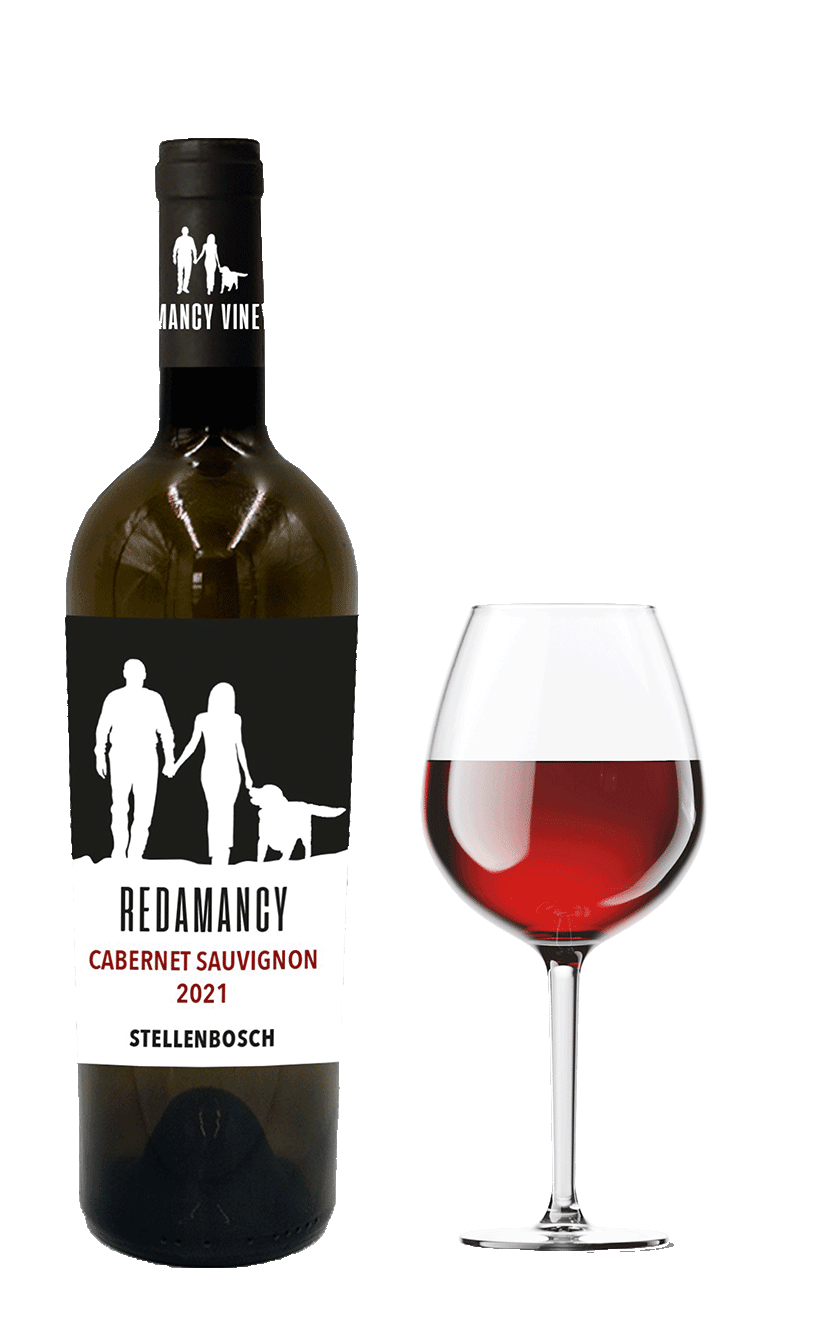
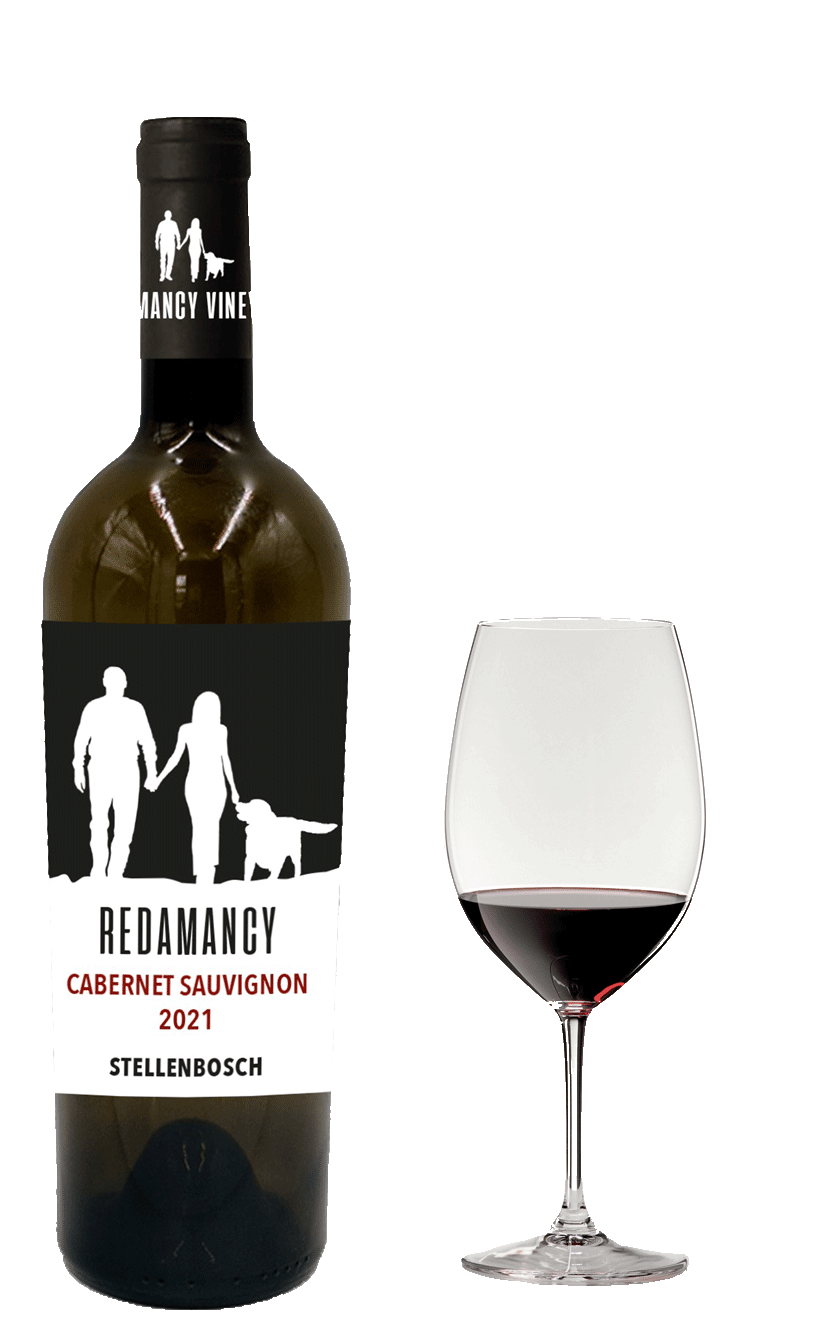
Second Commit

Changed region(s): [[0.031, 0.0614, 0.4333, 0.9828], [0.4952, 0.43, 0.8667, 0.9828]]

diff --git a/resources/views/shop/show.blade.php b/resources/views/shop/show.blade.php
@@ -1,0 +1,326 @@
+@extends('layouts.main')
+@section('assets')
+    <style type="text/css" data-type="vc_shortcodes-custom-css">.vc_custom_1460727920666{padding-top: 0px !important;padding-bottom: 0px !important;background-color: #f2f2f2 !important;}.vc_custom_1460727927848{padding-top: 0px !important;padding-bottom: 0px !important;background-color: #f2f2f2 !important;}.vc_custom_1460727935440{padding-top: 0px !important;padding-bottom: 0px !important;background-color: #f2f2f2 !important;}.vc_custom_1460636569719{padding: 20% !important;}.vc_custom_1460635864072{padding-top: 0px !important;padding-right: 0px !important;padding-bottom: 0px !important;padding-left: 0px !important;}.vc_custom_1460727890422{margin-bottom: 0px !important;}.vc_custom_1459091894099{margin-bottom: 0px !important;}.vc_custom_1460635871252{padding-top: 0px !important;padding-right: 0px !important;padding-bottom: 0px !important;padding-left: 0px !important;}.vc_custom_1460636579755{padding: 20% !important;}.vc_custom_1459092021864{margin-bottom: 0px !important;}.vc_custom_1460636587092{padding: 20% !important;}.vc_custom_1460635878309{padding-top: 0px !important;padding-right: 0px !important;padding-bottom: 0px !important;padding-left: 0px !important;}.vc_custom_1459092115753{margin-bottom: 0px !important;}</style><noscript><style> .wpb_animate_when_almost_visible { opacity: 1; }</style></noscript></head>
+
+@endsection
+
+@section('content')
+    <div class="site-wrapper">
+
+        <header class="site-header default">
+
+        @include('partials.nav')
+        <!-- Page header image -->
+            <!-- End Page header image -->
+            <!-- Page meta -->
+            <div class="page-meta " >
+
+                <div class="container">
+                    <div class="row">
+                        <div class="col-md-12">
+
+                            <div class="page-meta-wrapper">
+
+
+
+
+
+
+                            </div><!-- .page-meta-wrapper -->
+
+                        </div><!-- .col-md-12 -->
+
+                    </div><!-- .row -->
+                </div><!-- .container -->
+
+            </div><!-- .page-meta -->
+
+            <!-- Page header image -->
+            <!-- End Page header image -->
+        </header>
+        <!-- End Header. Begin Template Content -->
+        <section id="content">
+            <div class="container">
+                <div class="row">
+                    <div class="col-xs-12 col-md-12">
+                        <div class="woocommerce-notices-wrapper"></div>
+                        <div id="product-680" class="product type-product post-680 status-publish first instock product_cat-red-wines product_tag-red product_tag-wine has-post-thumbnail shipping-taxable purchasable product-type-variable has-default-attributes">
+                            <div class="row">
+                                <div class="col-md-6">
+                                    <div class="woocommerce-product-gallery woocommerce-product-gallery--with-images woocommerce-product-gallery--columns-4 images" data-columns="4" style="transition: opacity .25s ease-in-out;">
+                                        <figure class="woocommerce-product-gallery__wrapper">
+                                            <div data-thumb="http://127.0.0.1:81/wordpress/wp-content/uploads/2016/03/Dark-blue-Merlot-w-cup-v2-140x140.png"
+                                                 data-thumb-alt="" class="woocommerce-product-gallery__image">
+                                                <a href="{{asset('images/wine-bottles/current-release.png')}}">
+                                                    <img width="840" height="1335" src="{{asset('images/wine-bottles/current-release.png')}}" class="wp-post-image" alt="" loading="lazy"
+                                                         title="Dark-blue-Merlot-w-cup-v2" data-caption="" data-src="{{asset('images/wine-bottles/current-release.png')}}"
+                                                         data-large_image="images/wine-bottles/current-release.png" data-large_image_width="840"
+                                                         data-large_image_height="1335" srcset="images/wine-bottles/current-release.png 840w,
+                                                         images/wine-bottles/current-release.png 189w,
+                                                         images/wine-bottles/current-release.png 644w,
+                                                         images/wine-bottles/current-release.png 768w" sizes="(max-width: 840px) 100vw, 840px" />
+                                                </a>
+                                            </div>
+                                        </figure>
+                                    </div>
+                                </div><!-- .col-md-6 -->
+
+                                <div class="col-md-6">
+                                    <div class="summary entry-summary">
+                                        <h1 class="product_title entry-title">Cabernet Sauvignon</h1>
+                                        <div itemprop="description">
+                                            <p>Served well-chilled our authentically made Cabernet Sauvignon is a refreshingly delicate dry wine with hints of strawberry, citrus, and peach laced fruit.</p>
+                                        </div>
+                                        <div itemprop="offers" itemscope itemtype="http://schema.org/Offer">
+
+                                            <p class="price">
+                                                <span class="price-text-prefix">From </span>
+                                                <span class="woocommerce-Price-amount amount">
+                                                    <bdi>
+                                                        <span class="woocommerce-Price-currencySymbol">KSh</span>&nbsp;150.00</bdi>
+                                                </span>
+                                                <span class="bottle-size">/750ml</span>
+                                            </p>
+
+                                        </div>
+
+                                        <form class="variations_form cart" action="" method="post"
+                                              enctype='multipart/form-data' data-product_id="680"
+                                              data-product_variations="[{&quot;attributes&quot;:{&quot;attribute_vintage&quot;:&quot;2015&quot;},&quot;availability_html&quot;:&quot;&quot;,&quot;backorders_allowed&quot;:false,&quot;dimensions&quot;:{&quot;length&quot;:&quot;&quot;,&quot;width&quot;:&quot;&quot;,&quot;height&quot;:&quot;&quot;},&quot;dimensions_html&quot;:&quot;N\/A&quot;,&quot;display_price&quot;:150,&quot;display_regular_price&quot;:150,&quot;image&quot;:{&quot;title&quot;:&quot;Dark-blue-Merlot-w-cup-v2&quot;,&quot;caption&quot;:&quot;&quot;,&quot;url&quot;:&quot;http:\/\/127.0.0.1:81\/wordpress\/wp-content\/uploads\/2016\/03\/Dark-blue-Merlot-w-cup-v2.png&quot;,&quot;alt&quot;:&quot;&quot;,&quot;src&quot;:&quot;http:\/\/127.0.0.1:81\/wordpress\/wp-content\/uploads\/2016\/03\/Dark-blue-Merlot-w-cup-v2.png&quot;,&quot;srcset&quot;:&quot;http:\/\/127.0.0.1:81\/wordpress\/wp-content\/uploads\/2016\/03\/Dark-blue-Merlot-w-cup-v2.png 840w, http:\/\/127.0.0.1:81\/wordpress\/wp-content\/uploads\/2016\/03\/Dark-blue-Merlot-w-cup-v2-189x300.png 189w, http:\/\/127.0.0.1:81\/wordpress\/wp-content\/uploads\/2016\/03\/Dark-blue-Merlot-w-cup-v2-644x1024.png 644w, http:\/\/127.0.0.1:81\/wordpress\/wp-content\/uploads\/2016\/03\/Dark-blue-Merlot-w-cup-v2-768x1221.png 768w&quot;,&quot;sizes&quot;:&quot;(max-width: 840px) 100vw, 840px&quot;,&quot;full_src&quot;:&quot;http:\/\/127.0.0.1:81\/wordpress\/wp-content\/uploads\/2016\/03\/Dark-blue-Merlot-w-cup-v2.png&quot;,&quot;full_src_w&quot;:840,&quot;full_src_h&quot;:1335,&quot;gallery_thumbnail_src&quot;:&quot;http:\/\/127.0.0.1:81\/wordpress\/wp-content\/uploads\/2016\/03\/Dark-blue-Merlot-w-cup-v2-140x140.png&quot;,&quot;gallery_thumbnail_src_w&quot;:140,&quot;gallery_thumbnail_src_h&quot;:140,&quot;thumb_src&quot;:&quot;http:\/\/127.0.0.1:81\/wordpress\/wp-content\/uploads\/2016\/03\/Dark-blue-Merlot-w-cup-v2.png&quot;,&quot;thumb_src_w&quot;:840,&quot;thumb_src_h&quot;:1335,&quot;src_w&quot;:840,&quot;src_h&quot;:1335},&quot;image_id&quot;:1997,&quot;is_downloadable&quot;:false,&quot;is_in_stock&quot;:true,&quot;is_purchasable&quot;:true,&quot;is_sold_individually&quot;:&quot;no&quot;,&quot;is_virtual&quot;:false,&quot;max_qty&quot;:&quot;&quot;,&quot;min_qty&quot;:1,&quot;price_html&quot;:&quot;&lt;span class=\&quot;price\&quot;&gt;&lt;span class=\&quot;woocommerce-Price-amount amount\&quot;&gt;&lt;bdi&gt;&lt;span class=\&quot;woocommerce-Price-currencySymbol\&quot;&gt;KSh&lt;\/span&gt;&amp;nbsp;150.00&lt;\/bdi&gt;&lt;\/span&gt;&lt;\/span&gt;&quot;,&quot;sku&quot;:&quot;&quot;,&quot;variation_description&quot;:&quot;&quot;,&quot;variation_id&quot;:1373,&quot;variation_is_active&quot;:true,&quot;variation_is_visible&quot;:true,&quot;weight&quot;:&quot;&quot;,&quot;weight_html&quot;:&quot;N\/A&quot;},{&quot;attributes&quot;:{&quot;attribute_vintage&quot;:&quot;2018&quot;},&quot;availability_html&quot;:&quot;&quot;,&quot;backorders_allowed&quot;:false,&quot;dimensions&quot;:{&quot;length&quot;:&quot;&quot;,&quot;width&quot;:&quot;&quot;,&quot;height&quot;:&quot;&quot;},&quot;dimensions_html&quot;:&quot;N\/A&quot;,&quot;display_price&quot;:180,&quot;display_regular_price&quot;:180,&quot;image&quot;:{&quot;title&quot;:&quot;Dark-blue-Merlot-w-cup-v2&quot;,&quot;caption&quot;:&quot;&quot;,&quot;url&quot;:&quot;http:\/\/127.0.0.1:81\/wordpress\/wp-content\/uploads\/2016\/03\/Dark-blue-Merlot-w-cup-v2.png&quot;,&quot;alt&quot;:&quot;&quot;,&quot;src&quot;:&quot;http:\/\/127.0.0.1:81\/wordpress\/wp-content\/uploads\/2016\/03\/Dark-blue-Merlot-w-cup-v2.png&quot;,&quot;srcset&quot;:&quot;http:\/\/127.0.0.1:81\/wordpress\/wp-content\/uploads\/2016\/03\/Dark-blue-Merlot-w-cup-v2.png 840w, http:\/\/127.0.0.1:81\/wordpress\/wp-content\/uploads\/2016\/03\/Dark-blue-Merlot-w-cup-v2-189x300.png 189w, http:\/\/127.0.0.1:81\/wordpress\/wp-content\/uploads\/2016\/03\/Dark-blue-Merlot-w-cup-v2-644x1024.png 644w, http:\/\/127.0.0.1:81\/wordpress\/wp-content\/uploads\/2016\/03\/Dark-blue-Merlot-w-cup-v2-768x1221.png 768w&quot;,&quot;sizes&quot;:&quot;(max-width: 840px) 100vw, 840px&quot;,&quot;full_src&quot;:&quot;http:\/\/127.0.0.1:81\/wordpress\/wp-content\/uploads\/2016\/03\/Dark-blue-Merlot-w-cup-v2.png&quot;,&quot;full_src_w&quot;:840,&quot;full_src_h&quot;:1335,&quot;gallery_thumbnail_src&quot;:&quot;http:\/\/127.0.0.1:81\/wordpress\/wp-content\/uploads\/2016\/03\/Dark-blue-Merlot-w-cup-v2-140x140.png&quot;,&quot;gallery_thumbnail_src_w&quot;:140,&quot;gallery_thumbnail_src_h&quot;:140,&quot;thumb_src&quot;:&quot;http:\/\/127.0.0.1:81\/wordpress\/wp-content\/uploads\/2016\/03\/Dark-blue-Merlot-w-cup-v2.png&quot;,&quot;thumb_src_w&quot;:840,&quot;thumb_src_h&quot;:1335,&quot;src_w&quot;:840,&quot;src_h&quot;:1335},&quot;image_id&quot;:1997,&quot;is_downloadable&quot;:false,&quot;is_in_stock&quot;:true,&quot;is_purchasable&quot;:true,&quot;is_sold_individually&quot;:&quot;no&quot;,&quot;is_virtual&quot;:false,&quot;max_qty&quot;:&quot;&quot;,&quot;min_qty&quot;:1,&quot;price_html&quot;:&quot;&lt;span class=\&quot;price\&quot;&gt;&lt;span class=\&quot;woocommerce-Price-amount amount\&quot;&gt;&lt;bdi&gt;&lt;span class=\&quot;woocommerce-Price-currencySymbol\&quot;&gt;KSh&lt;\/span&gt;&amp;nbsp;180.00&lt;\/bdi&gt;&lt;\/span&gt;&lt;\/span&gt;&quot;,&quot;sku&quot;:&quot;&quot;,&quot;variation_description&quot;:&quot;&quot;,&quot;variation_id&quot;:2222,&quot;variation_is_active&quot;:true,&quot;variation_is_visible&quot;:true,&quot;weight&quot;:&quot;&quot;,&quot;weight_html&quot;:&quot;N\/A&quot;},{&quot;attributes&quot;:{&quot;attribute_vintage&quot;:&quot;2020&quot;},&quot;availability_html&quot;:&quot;&quot;,&quot;backorders_allowed&quot;:false,&quot;dimensions&quot;:{&quot;length&quot;:&quot;&quot;,&quot;width&quot;:&quot;&quot;,&quot;height&quot;:&quot;&quot;},&quot;dimensions_html&quot;:&quot;N\/A&quot;,&quot;display_price&quot;:190,&quot;display_regular_price&quot;:190,&quot;image&quot;:{&quot;title&quot;:&quot;Dark-blue-Merlot-w-cup-v2&quot;,&quot;caption&quot;:&quot;&quot;,&quot;url&quot;:&quot;http:\/\/127.0.0.1:81\/wordpress\/wp-content\/uploads\/2016\/03\/Dark-blue-Merlot-w-cup-v2.png&quot;,&quot;alt&quot;:&quot;&quot;,&quot;src&quot;:&quot;http:\/\/127.0.0.1:81\/wordpress\/wp-content\/uploads\/2016\/03\/Dark-blue-Merlot-w-cup-v2.png&quot;,&quot;srcset&quot;:&quot;http:\/\/127.0.0.1:81\/wordpress\/wp-content\/uploads\/2016\/03\/Dark-blue-Merlot-w-cup-v2.png 840w, http:\/\/127.0.0.1:81\/wordpress\/wp-content\/uploads\/2016\/03\/Dark-blue-Merlot-w-cup-v2-189x300.png 189w, http:\/\/127.0.0.1:81\/wordpress\/wp-content\/uploads\/2016\/03\/Dark-blue-Merlot-w-cup-v2-644x1024.png 644w, http:\/\/127.0.0.1:81\/wordpress\/wp-content\/uploads\/2016\/03\/Dark-blue-Merlot-w-cup-v2-768x1221.png 768w&quot;,&quot;sizes&quot;:&quot;(max-width: 840px) 100vw, 840px&quot;,&quot;full_src&quot;:&quot;http:\/\/127.0.0.1:81\/wordpress\/wp-content\/uploads\/2016\/03\/Dark-blue-Merlot-w-cup-v2.png&quot;,&quot;full_src_w&quot;:840,&quot;full_src_h&quot;:1335,&quot;gallery_thumbnail_src&quot;:&quot;http:\/\/127.0.0.1:81\/wordpress\/wp-content\/uploads\/2016\/03\/Dark-blue-Merlot-w-cup-v2-140x140.png&quot;,&quot;gallery_thumbnail_src_w&quot;:140,&quot;gallery_thumbnail_src_h&quot;:140,&quot;thumb_src&quot;:&quot;http:\/\/127.0.0.1:81\/wordpress\/wp-content\/uploads\/2016\/03\/Dark-blue-Merlot-w-cup-v2.png&quot;,&quot;thumb_src_w&quot;:840,&quot;thumb_src_h&quot;:1335,&quot;src_w&quot;:840,&quot;src_h&quot;:1335},&quot;image_id&quot;:1997,&quot;is_downloadable&quot;:false,&quot;is_in_stock&quot;:true,&quot;is_purchasable&quot;:true,&quot;is_sold_individually&quot;:&quot;no&quot;,&quot;is_virtual&quot;:false,&quot;max_qty&quot;:&quot;&quot;,&quot;min_qty&quot;:1,&quot;price_html&quot;:&quot;&lt;span class=\&quot;price\&quot;&gt;&lt;span class=\&quot;woocommerce-Price-amount amount\&quot;&gt;&lt;bdi&gt;&lt;span class=\&quot;woocommerce-Price-currencySymbol\&quot;&gt;KSh&lt;\/span&gt;&amp;nbsp;190.00&lt;\/bdi&gt;&lt;\/span&gt;&lt;\/span&gt;&quot;,&quot;sku&quot;:&quot;&quot;,&quot;variation_description&quot;:&quot;&quot;,&quot;variation_id&quot;:2223,&quot;variation_is_active&quot;:true,&quot;variation_is_visible&quot;:true,&quot;weight&quot;:&quot;&quot;,&quot;weight_html&quot;:&quot;N\/A&quot;}]">
+
+                                            <div class="single_variation_wrap">
+                                                <div class="woocommerce-variation single_variation"></div>
+                                                <div class="woocommerce-variation-add-to-cart variations_button">
+
+{{--                                                    <div class="quantity">--}}
+{{--                                                        <label class="screen-reader-text" for="quantity_61c15e4c81c71">Cabernet Sauvignon quantity</label>--}}
+{{--                                                        <input--}}
+{{--                                                            type="number"--}}
+{{--                                                            id="quantity_61c15e4c81c71"--}}
+{{--                                                            class="input-text qty text"--}}
+{{--                                                            step="1"--}}
+{{--                                                            min="1"--}}
+{{--                                                            max=""--}}
+{{--                                                            name="quantity"--}}
+{{--                                                            value="1"--}}
+{{--                                                            title="Qty"--}}
+{{--                                                            inputmode="numeric"--}}
+{{--                                                            autocomplete="off"--}}
+{{--                                                        />--}}
+{{--                                                    </div>--}}
+
+                                                    <button type="submit" class="single_add_to_cart_button button alt">Add to cart</button>
+
+
+                                                    <input type="hidden" name="add-to-cart" value="680" />
+                                                    <input type="hidden" name="product_id" value="680" />
+                                                    <input type="hidden" name="variation_id" class="variation_id" value="0" />
+                                                </div>
+                                            </div>
+
+                                        </form>
+
+                                        <div class="product_meta">
+
+                                            <span class="sku_wrapper">SKU: <span class="sku">N/A</span></span>
+
+                                            <span class="posted_in">Category: <a href="" rel="tag">Red wines</a></span>
+                                            <span class="tagged_as">Tags: <a href="" rel="tag">red</a>,
+                                                <a href="." rel="tag">wine</a>
+                                            </span>
+
+                                        </div>
+
+
+                                        <table class="woocommerce-product-attributes shop_attributes">
+                                            <tr class="woocommerce-product-attributes-item woocommerce-product-attributes-item--attribute_varietal">
+                                                <th class="woocommerce-product-attributes-item__label">VARIETAL</th>
+                                                <td class="woocommerce-product-attributes-item__value"><p>100% Cabernet </p>
+                                                </td>
+                                            </tr>
+                                            <tr class="woocommerce-product-attributes-item woocommerce-product-attributes-item--attribute_appellation">
+                                                <th class="woocommerce-product-attributes-item__label">APPELLATION</th>
+                                                <td class="woocommerce-product-attributes-item__value"><p>Redamancy Cabernet </p>
+                                                </td>
+                                            </tr>
+                                            <tr class="woocommerce-product-attributes-item woocommerce-product-attributes-item--attribute_vintage">
+                                                <th class="woocommerce-product-attributes-item__label">VINTAGE</th>
+                                                <td class="woocommerce-product-attributes-item__value"><p>2021</p>
+                                                </td>
+                                            </tr>
+                                            <tr class="woocommerce-product-attributes-item woocommerce-product-attributes-item--attribute_profile">
+                                                <th class="woocommerce-product-attributes-item__label">Profile</th>
+                                                <td class="woocommerce-product-attributes-item__value"><p>Semi-dry</p>
+                                                </td>
+                                            </tr>
+                                            <tr class="woocommerce-product-attributes-item woocommerce-product-attributes-item--attribute_alcohol">
+                                                <th class="woocommerce-product-attributes-item__label">ALCOHOL</th>
+                                                <td class="woocommerce-product-attributes-item__value"><p>13.5%</p>
+                                                </td>
+                                            </tr>
+                                            <tr class="woocommerce-product-attributes-item woocommerce-product-attributes-item--attribute_volume">
+                                                <th class="woocommerce-product-attributes-item__label">VOLUME</th>
+                                                <td class="woocommerce-product-attributes-item__value"><p>750 mL</p>
+                                                </td>
+                                            </tr>
+                                        </table>
+
+                                    </div><!-- .summary -->
+                                </div><!-- .col-md-6 -->
+                            </div><!-- .row -->
+
+
+                            <div class="vc_row wpb_row vc_row-fluid vc_custom_1460727920666 vc_row-has-fill vc_row-o-content-middle vc_row-flex">
+                                <div class="wpb_column vc_column_container vc_col-sm-12 vc_col-lg-6 vc_col-md-6">
+                                    <div class="vc_column-inner vc_custom_1460636569719">
+                                        <div class="wpb_wrapper">
+                                            <div class="title-subtitle-box" style=" text-align: left;">
+                                                <p  style="">Wine specs</p>
+                                                <h1 style=" font-style: normal;">Tasting notes</h1>
+                                            </div>
+                                            <div class="wpb_text_column wpb_content_element  vc_custom_1460727890422" >
+                                                <div class="wpb_wrapper">
+                                                    <p>Deep garnet with a vibrant ruby edge, velvety soft on the palate with bright cherry to plum flavors. This wine is weighty and full of fresh ripe berries with rich, dark accents of cocoa nib. Intriguing and delicious. Aromas of dark chocolate, plum, black cherry, cedar and tarragon jump from the glass.</p>
+                                                    <p>A potent perfumed mix of berries, fresh herbs and roasted notes with a bit a mineral. A compelling blend of fresh and bright aroma next the rich and dark.</p>
+
+                                                </div>
+                                            </div>
+                                        </div>
+                                    </div>
+                                </div>
+                                <div class="wpb_column vc_column_container vc_col-sm-12 vc_col-lg-6 vc_col-md-6 vc_hidden-sm vc_hidden-xs">
+                                    <div class="vc_column-inner vc_custom_1460635864072">
+                                        <div class="wpb_wrapper">
+                                            <div  class="wpb_single_image wpb_content_element vc_align_left  vc_custom_1459091894099">
+
+                                                <figure class="wpb_wrapper vc_figure">
+                                                    <div class="vc_single_image-wrapper   vc_box_border_grey"><img width="1170" height="1400" src="../../wp-content/uploads/2016/03/product-img-1.jpg" class="vc_single_image-img attachment-full" alt="" loading="lazy" srcset="http://127.0.0.1:81/wordpress/wp-content/uploads/2016/03/product-img-1.jpg 1170w, http://127.0.0.1:81/wordpress/wp-content/uploads/2016/03/product-img-1-251x300.jpg 251w, http://127.0.0.1:81/wordpress/wp-content/uploads/2016/03/product-img-1-856x1024.jpg 856w, http://127.0.0.1:81/wordpress/wp-content/uploads/2016/03/product-img-1-768x919.jpg 768w" sizes="(max-width: 1170px) 100vw, 1170px" /></div>
+                                                </figure>
+                                            </div>
+                                        </div>
+                                    </div>
+                                </div>
+                            </div>
+                            <div class="vc_row wpb_row vc_row-fluid vc_custom_1460727927848 vc_row-has-fill vc_row-o-content-middle vc_row-flex">
+                                <div class="wpb_column vc_column_container vc_col-sm-12 vc_col-lg-6 vc_col-md-6 vc_hidden-sm vc_hidden-xs">
+                                    <div class="vc_column-inner vc_custom_1460635871252">
+                                        <div class="wpb_wrapper">
+                                            <div class="wpb_single_image wpb_content_element vc_align_left vc_custom_1459092021864">
+
+                                                <figure class="wpb_wrapper vc_figure">
+                                                    <div class="vc_single_image-wrapper   vc_box_border_grey">
+                                                        <img width="1170" height="1400" src="../../wp-content/uploads/2016/03/product-img-2.jpg" class="vc_single_image-img attachment-full" alt=""
+                                                             loading="lazy" srcset="http://127.0.0.1:81/wordpress/wp-content/uploads/2016/03/product-img-2.jpg 1170w,
+                                                             http://127.0.0.1:81/wordpress/wp-content/uploads/2016/03/product-img-2-251x300.jpg 251w,
+                                                             http://127.0.0.1:81/wordpress/wp-content/uploads/2016/03/product-img-2-856x1024.jpg 856w,
+                                                             http://127.0.0.1:81/wordpress/wp-content/uploads/2016/03/product-img-2-768x919.jpg 768w" sizes="(max-width: 1170px) 100vw, 1170px" />
+                                                    </div>
+                                                </figure>
+                                            </div>
+                                        </div>
+                                    </div>
+                                </div>
+                                <div class="wpb_column vc_column_container vc_col-sm-12 vc_col-lg-6 vc_col-md-6">
+                                    <div class="vc_column-inner vc_custom_1460636579755">
+                                        <div class="wpb_wrapper">
+                                            <div class="title-subtitle-box" style=" text-align: left;">
+                                                <p style="">Wine specs</p>
+                                                <h1 style=" font-style: normal;">Food pairing notes</h1>
+                                            </div>
+                                            <div class="wpb_text_column wpb_content_element " >
+                                                <div class="wpb_wrapper">
+                                                    <p>
+                                                        One of our favorite blocks from the Villenoir vineyard. This block tends to lift the aromatic character and soften the palate of
+                                                        our Cabernet Sauvignon. We are proud to offer this very limited and barrel selected wine as a stand alone block.
+                                                    </p>
+
+                                                </div>
+                                            </div>
+                                        </div>
+                                    </div>
+                                </div>
+                            </div>
+                            <div class="vc_row wpb_row vc_row-fluid vc_custom_1460727935440 vc_row-has-fill vc_row-o-content-middle vc_row-flex">
+                                <div class="wpb_column vc_column_container vc_col-sm-12 vc_col-lg-6 vc_col-md-6">
+                                    <div class="vc_column-inner vc_custom_1460636587092">
+                                        <div class="wpb_wrapper">
+                                            <div class="title-subtitle-box  " style=" text-align: left;">
+                                                <p  style="">Wine specs</p>
+                                                <h1 style=" font-style: normal;">Winemaker notes</h1>
+                                            </div>
+                                            <div class="wpb_text_column wpb_content_element " >
+                                                <div class="wpb_wrapper">
+                                                    <p>
+                                                        Deep garnet with a vibrant ruby edge, velvety soft on the palate with bright cherry to plum flavors.
+                                                        This wine is weighty and full of fresh ripe berries with rich, dark accents of cocoa nib.
+                                                        Intriguing and delicious.
+                                                    </p>
+                                                    <p>Aromas of dark chocolate, plum, black cherry, cedar and tarragon jump from the glass.</p>
+
+                                                </div>
+                                            </div>
+                                        </div>
+                                    </div>
+                                </div>
+                                <div class="wpb_column vc_column_container vc_col-sm-12 vc_col-lg-6 vc_col-md-6 vc_hidden-sm vc_hidden-xs">
+                                    <div class="vc_column-inner vc_custom_1460635878309">
+                                        <div class="wpb_wrapper">
+                                            <div  class="wpb_single_image wpb_content_element vc_align_left  vc_custom_1459092115753">
+                                                <figure class="wpb_wrapper vc_figure">
+                                                    <div class="vc_single_image-wrapper vc_box_border_grey">
+                                                        <img width="1170" height="1400" src="../../wp-content/uploads/2016/03/product-img-3.jpg" class="vc_single_image-img attachment-full"
+                                                             alt="" loading="lazy" srcset="http://127.0.0.1:81/wordpress/wp-content/uploads/2016/03/product-img-3.jpg 1170w,
+                                                              http://127.0.0.1:81/wordpress/wp-content/uploads/2016/03/product-img-3-251x300.jpg 251w,
+                                                               http://127.0.0.1:81/wordpress/wp-content/uploads/2016/03/product-img-3-856x1024.jpg 856w,
+                                                                http://127.0.0.1:81/wordpress/wp-content/uploads/2016/03/product-img-3-768x919.jpg 768w"
+                                                             sizes="(max-width: 1170px) 100vw, 1170px" />
+                                                    </div>
+                                                </figure>
+                                            </div>
+                                        </div>
+                                    </div>
+                                </div>
+                            </div>
+
+                        </div>
+
+                    </div><!-- /.villenoir_page_container() -->
+
+
+                </div><!-- .row -->
+            </div><!-- .container -->
+        </section>
+        @include('partials.footer')
+
+        <nav id="side-cart" class="side-panel">
+            <header>
+                <h6>Shopping cart</h6>
+                <a href="#" class="thb-close" title="Close"><svg xmlns="http://www.w3.org/2000/svg" version="1.1" x="0" y="0" width="12" height="12" viewBox="1.1 1.1 12 12" enable-background="new 1.1 1.1 12 12" xml:space="preserve"><path d="M8.3 7.1l4.6-4.6c0.3-0.3 0.3-0.8 0-1.2 -0.3-0.3-0.8-0.3-1.2 0L7.1 5.9 2.5 1.3c-0.3-0.3-0.8-0.3-1.2 0 -0.3 0.3-0.3 0.8 0 1.2L5.9 7.1l-4.6 4.6c-0.3 0.3-0.3 0.8 0 1.2s0.8 0.3 1.2 0L7.1 8.3l4.6 4.6c0.3 0.3 0.8 0.3 1.2 0 0.3-0.3 0.3-0.8 0-1.2L8.3 7.1z"></path></svg></a>
+            </header>
+            <div class="side-panel-content">
+                <div class="widget woocommerce widget_shopping_cart"><div class="widget_shopping_cart_content"></div></div>            </div>
+        </nav>
+        <div class="click-capture"></div>
+
+        <div id="fullscreen-searchform">
+            <button type="button" class="close">
+                <svg xmlns="http://www.w3.org/2000/svg" version="1.1" x="0" y="0" width="12" height="12" viewBox="1.1 1.1 12 12" enable-background="new 1.1 1.1 12 12" xml:space="preserve"><path d="M8.3 7.1l4.6-4.6c0.3-0.3 0.3-0.8 0-1.2 -0.3-0.3-0.8-0.3-1.2 0L7.1 5.9 2.5 1.3c-0.3-0.3-0.8-0.3-1.2 0 -0.3 0.3-0.3 0.8 0 1.2L5.9 7.1l-4.6 4.6c-0.3 0.3-0.3 0.8 0 1.2s0.8 0.3 1.2 0L7.1 8.3l4.6 4.6c0.3 0.3 0.8 0.3 1.2 0 0.3-0.3 0.3-0.8 0-1.2L8.3 7.1z"></path></svg>
+            </button>
+            <form method="get" id="searchform" class="" action="http://127.0.0.1:81/wordpress/">
+                <input type="search" value="" placeholder="Search for products" name="s" id="s" />
+                <button type="submit" id="searchsubmit" class="btn btn-primary">Search</button>
+            </form>
+        </div>
+        <a href="#site-top" class="scrollup">
+            <svg class="icon icon-scrollup" id="icon-scrollup" viewBox="0 0 45 45" width="100%" height="100%">
+                <g fill="none" fill-rule="evenodd">
+                    <path d="M22.966 14.75v18.242H22V14.86l-2.317 2.317-.683-.684 3-3v-.26h.261l.232-.233.045.045.045-.045.232.232h.151v.152l3.11 3.11-.683.683-2.427-2.427z" fill="#ffffff"></path>
+                </g>
+            </svg>
+        </a>
+
+    </div>
+@endsection
+
+@section('scripts')
+@endsection

diff --git a/resources/views/pages/index.blade.php b/resources/views/pages/index.blade.php
@@ -34,7 +34,8 @@
                                         data-frame_1="st:1250;sp:1000;sR:1250;"
                                         data-frame_999="o:0;e:power4.in;st:w;sp:1500;sR:6750;"
                                         style="z-index:8;"
-                                    ><img src="{{asset('images/wine-bottles/slider-bottle-main.png')}}" class="tp-rs-img" width="794" height="754" data-no-retina>
+                                    >
+{{--                                        <img src="{{asset('images/wine-bottles/slider-bottle-main.png')}}" class="tp-rs-img" width="794" height="754" data-no-retina>--}}
                                     </rs-layer><!--
 
 							--><rs-layer
@@ -167,7 +168,7 @@
                                             <div class="wpb_wrapper">
                                                 <div class="title-subtitle-box" style="margin-bottom:60px; text-align: left;">
                                                     <p style="">Message from Redamancy</p>
-                                                    <h1 style=" font-style: normal;">A New Generation of Winemakers</h1>
+                                                    <h1 style=" font-style: normal;">A New Generation of Wine Producers</h1>
                                                 </div>
                                                 <div class="wpb_text_column wpb_content_element " >
                                                     <div class="wpb_wrapper">
@@ -221,7 +222,7 @@
                                         <div class="vc_column-inner vc_custom_1460628348165">
                                             <div class="wpb_wrapper">
                                                 <div class="title-subtitle-box" style=" margin-bottom:5px; text-align: left;">
-                                                    <h2 style=" font-style: normal;">2015</h2>
+                                                    <h2 style=" font-style: normal;">2021</h2>
                                                 </div>
                                                 <div class="title-subtitle-box  vc_custom_1639980038304" style=" margin-bottom:90px; text-align: left;">
                                                     <p  style="">Current release</p>

diff --git a/resources/views/shop/index.blade.php b/resources/views/shop/index.blade.php
@@ -100,7 +100,7 @@
                                 <li class="col-xs-12 col-sm-6 col-md-6 product type-product post-645 status-publish instock
                                 product_cat-red-wines product_tag-red product_tag-wine has-post-thumbnail shipping-taxable purchasable product-type-simple">
 
-                                    <a href="" class="woocommerce-LoopProduct-link woocommerce-loop-product__link" >
+                                    <a href="{{route('wine-details')}}" class="woocommerce-LoopProduct-link woocommerce-loop-product__link" >
                                         <h2 class="woocommerce-loop-product__title">Cabernet Sauvignon</h2>
                                         <div class="gg-product-image-wrapper">
                                             <img width="840" height="1335" src="{{asset('images/shop/red-wine-glass-shop.png')}}" class="attachment-woocommerce_thumbnail size-woocommerce_thumbnail"

diff --git a/routes/web.php b/routes/web.php
@@ -24,6 +24,7 @@ Route::get('our-story', function () {
 Route::get('wine-club', function () {
     return view('pages.wine-club');
 })->name('wine-club');
+Route::view('wine-details','shop.show')->name('wine-details');
 
 Route::resource('shop',\App\Http\Controllers\ShopController::class);
 Route::get('contact', function () {

diff --git a/app/Http/Controllers/ShopController.php b/app/Http/Controllers/ShopController.php
@@ -43,9 +43,9 @@ class ShopController extends Controller
      * @param  int  $id
      * @return \Illuminate\Http\Response
      */
-    public function show($id)
+    public function show()
     {
-        //
+        return view('shop.show');
     }
 
     /**
